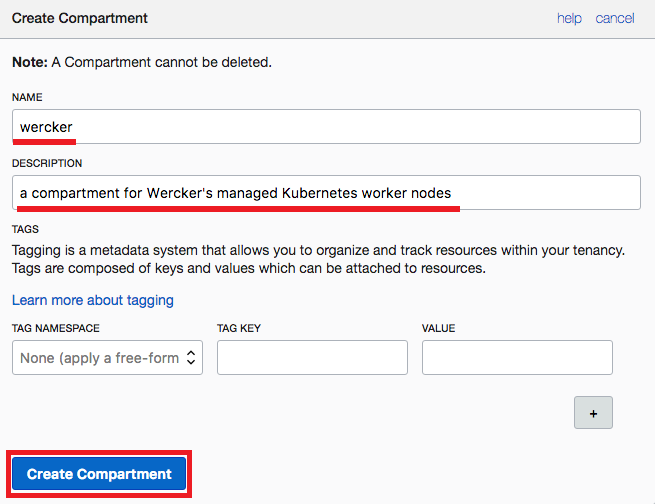
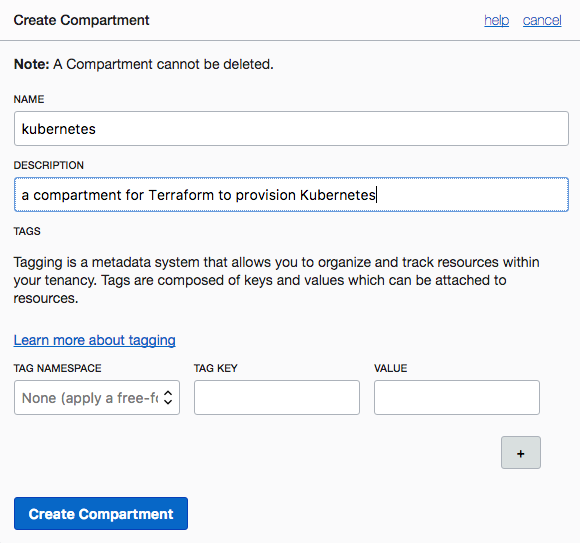
work in progress on terraform updates

diff --git a/workshops/container-native-development/LabGuide200.md b/workshops/container-native-development/LabGuide200.md
@@ -1,4 +1,4 @@
-# Automate Deployment to Kubernetes
+# Provision Kubernetes Using Terraform
 
 ![](images/200/header.png)
 
@@ -8,7 +8,7 @@ This is the second of several labs that are part of the **Oracle Public Cloud Co
 
 You will take on 2 personas during the workshop. The **Lead Developer Persona** will be responsible for configuring the parts of the automated build and deploy process that involve details about the application itself. The **DevOps Engineer Persona** will configure the parts of the automation involving the Kubernetes infrastructure. To containerize and automate the building and deploying of this application you will make use of Wercker Pipelines, Oracle Container Registry, and Oracle Container Engine.
 
-During this lab, you will take on the **DevOps Engineer Persona**. You will create a Kubernetes cluster and deploy your twitter feed microservice and the product catalog application. You'll also create both internal and external facing services in Kubernetes to expose only some of your application's entry points to the internet.
+During this lab, you will take on the **DevOps Engineer Persona**. You will provision a Kubernetes cluster and all of the infrastructure that it requires using Terraform. Terraform will provision the Virtual Cloud Network, Load Balancers, Kubernetes Master and Worker instances, and etcd instance required to support your cluster.
 
 **_To log issues_**, click here to go to the [GitHub oracle](https://github.com/oracle/learning-library/issues/new) repository issue submission form.
 
@@ -27,8 +27,9 @@ During this lab, you will take on the **DevOps Engineer Persona**. You will crea
 - The following lab requires:
   - an Oracle Public Cloud account that will be supplied by your instructor.
   - a [GitHub account](https://github.com/join)
+  - a [Docker Hub account](https://hub.docker.com)
 
-# Containerize Your Java Application and Automate Builds
+# Provision Kubernetes Using Terraform
 
 ## Set Up Oracle Cloud infrastructure
 
@@ -68,7 +69,7 @@ Compartments are used to isolate resources within your OCI tenant. User-based ac
 
   ![](images/200/6.png)
 
-- If your workshop instructor has directed you to use a pre-created compartment **_do not create a new one_**. Locate the compartment in the list and click **Copy** next to the displayed OCID. **Paste** this OCID into a text file or elsewhere for safe keeping. We will use it to tell Wercker where to set up our Cluster in a later step. Proceed to **STEP 3**.
+- If your workshop instructor has directed you to use a pre-created compartment **_do not create a new one_**. Locate the compartment in the list and click **Copy** next to the displayed OCID. **Paste** this OCID into a text file or elsewhere for safe keeping. We will use it to tell Terraform where to set up our cluster in a later step. Proceed to **STEP 3**.
 
   Otherwise, if you are using a trial account or paid account, proceed to the next instruction to create a compartment.
 
@@ -78,19 +79,19 @@ Compartments are used to isolate resources within your OCI tenant. User-based ac
 
   ![](images/200/7.png)
 
-- In the **Name** field, enter `wercker`. Enter a description of your choice. Click **Create Compartment**.
+- In the **Name** field, enter `kubernetes`. Enter a description of your choice. Click **Create Compartment**.
 
   ![](images/200/8.png)
 
-- In a moment, your new Compartment will show up in the list. Locate it and click **Copy** in the OCID display. **Paste** this OCID into a text file or elsewhere for safe keeping. We will use it to tell Wercker where to set up our Cluster in a later step.
+- In a moment, your new Compartment will show up in the list. Locate it and click **Copy** in the OCID display. **Paste** this OCID into a text file or elsewhere for safe keeping. We will use it to tell Terraform where to set up our cluster in a later step.
 
   ![](images/200/9.png)
 
 ### **STEP 3**: Create and upload a new API key
 
-An API key is required for Wercker to authenticate to OCI in order to create compute instances for your Kubernetes worker nodes.
+An API key is required for Terraform to authenticate to OCI in order to create compute instances for your Kubernetes master and worker nodes.
 
-- Open a terminal window and run each of the following commands, one at a time, pressing **Enter** between each one. These commands will create a new directory called .oci, generate a new PEM private key, generate the corresponding public key, and copy the public key to the clipboard. For more information on this process, including the alternate commands to protect your key file with a passphrase, see the [official documentation](https://docs.us-phoenix-1.oraclecloud.com/Content/API/Concepts/apisigningkey.htm#two).
+- Open a terminal window and run each of the following commands, one at a time, pressing **Enter** between each one. These commands will create a new directory called `.oci`, generate a new PEM private key, generate the corresponding public key, and copy the public key to the clipboard. For more information on this process, including the alternate commands to protect your key file with a passphrase, see the [official documentation](https://docs.us-phoenix-1.oraclecloud.com/Content/API/Concepts/apisigningkey.htm#two).
 - If you're using **Windows**, you'll need to install [Git Bash for Windows](https://git-scm.com/download/win) and run the commands with that tool
 
 ```bash
@@ -112,7 +113,7 @@ cat ~/.oci/oci_api_key_public.pem | clip
 
   ![](images/200/10.png)
 
-**NOTE**: If you are using a federated user, you will not see **User Settings** in the dropdown menu. Instead, click the **Identity** menu item. You will be brought to the **Users** menu. Find your username in the list and hover over the **three dots** menu at the far right of the row, then click **View User Details**. 
+**NOTE**: If you are using a federated user, you will not see **User Settings** in the dropdown menu. Instead, click the **Identity** menu item. You will be brought to the **Users** menu. Find your username in the list and hover over the **three dots** menu at the far right of the row, then click **View User Details**.
 
   ![](images/200/56.png)
 
@@ -124,9 +125,105 @@ cat ~/.oci/oci_api_key_public.pem | clip
 
   ![](images/200/13.png)
 
-- **Leave this browser window open**, as we will need to copy and paste some of this information into Wercker.
+- **Leave this browser window open**, as we will need to copy and paste some of this information into the Terraform configuration file.
 
-### **STEP 4**: Create a new Cloud Credential in Wercker
+### **STEP 4**: Download Terraform and the OCI Terraform Provider
+
+- If you are using the Oracle-provided client image, this step has been done for you. Skip to the next step. Otherwise, continue with this step to install Terraform and the OCI provider.
+
+- Download the appropriate Terraform package for your operating system from the [terraform.io downloads page](https://www.terraform.io/downloads.html).
+
+  ![](images/200/58.png)
+
+- **Unzip** the file you downloaded into the folder ~/terraform. You can use the command line or a graphical zip program for this operation. The example command below assumes you don't have other zip files in the current directory beginning with the string `terraform_`.
+
+  `mkdir ~/terraform && cat terraform_*.zip | tar -xvf - -C ~/terraform && cd ~/terraform`
+
+- Add Terraform to your PATH in the **terminal window** that you will use for the next two steps using the following command:
+
+  ``export PATH=$PATH:`PWD` ``
+
+- Download the **OCI Terraform Provider** from the [GitHub release page](https://github.com/oracle/terraform-provider-oci/releases/latest). Select the package for your operating system.
+
+  ![](images/200/59.png)
+
+- Extract the **zip file** you just downloaded
+
+### **STEP 5**: Download and Configure the OCI Terraform Kubernetes Installer
+
+- From the same **terminal window**, run the following commands to download the OCI Terraform Kubernetes Installer:
+  ```bash
+  cd ~
+  git clone https://github.com/oracle/terraform-kubernetes-installer.git
+  cd terraform-kubernetes-installer
+  ```
+
+- Verify proper installation of both Terraform and the OCI provider by running the following command from your **terminal window**:
+
+  ```bash
+  terraform --version
+  ```
+  You should see a version for `Terraform` as well as a version for the `provider.oci` plugin. It is OK if those versions differ from the screenshot below.
+
+  ![](images/200/57.png)
+
+- If you got the expected output from `terraform --version`, proceed to the next instruction. Otherwise, go back to the previous step and complete the instructions to **Download Terraform and the OCI Terraform Provider**. If you installed Terraform yourself, also ensure that it is in your PATH for the current terminal window.
+
+- Once you have Terraform and the OCI provider set up, you are ready to configure the Kubernetes installer with your OCI account information. Start by making a copy of the included TFVARS example file to edit. Run the following from your **terminal window**:
+
+  ```bash
+  cp terraform.example.tfvars terraform.tfvars
+  ```
+
+- Open the `terraform.tfvars` file in your text editor of choice. On Linux you could run:
+
+  ```bash
+  gedit terraform.tfvars
+  ```
+
+- You should still have a browser tab open to your **User Details** page in the OCI Console. Fill in the values in the terraform.tfvars file on lines **2, 4, 6, and 7** with the values from the OCI Console, referring to the following screenshot for where to find them.
+
+  ```
+  tenancy_ocid = "Tenancy OCID"
+
+  fingerprint = "Key Fingerprint"
+
+  user_ocid = "User OCID"
+  region = "Region (e.g. us-ashburn-1)"
+  ```
+
+  **NOTE**: The `region` parameter may not already be present in your tfvars file. If it is not there, add it on a new line after the user_ocid parameter on line 6.
+
+  ![](images/200/17.png)
+
+- Now we'll fill in the OCI Compartment ID on **line 3**. Paste the value that you saved to a text file after creating the kubernetes **compartment** in the OCI Console. If you have lost it, you can retrieve it from the OCI Console compartment list (refer to **STEP 2**).
+
+  ```
+  compartment_ocid = "Compartment OCID"
+  ```
+
+- The last piece of information we need to provide about your OCI tenant is the private key corresponding to the public API key you uploaded to the OCI console previously. Provide the path the the private key file on **line 5**. Note that your path may differ from the example given below.
+
+  ```
+  private_key_path = "/Users/oracle/.oci/oci_api_key.pem"
+  ```
+
+- The rest of the terraform.tfvars file controls the parameters used when creating your Kubernetes cluster. You can control how many OCPUs each node receives, whether nodes should be virtual machines or bare metal instances, how many availability domains to use, and more. We will modify three of the lines in the remainder of the file.
+
+- First, we will specify that we want only one OCPU in each of the worker and master nodes. This reduces the hourly cost of running our cluster. On **lines 15 and 16**, uncomment the **k8sMasterShape** and **k8sWorkerShape** parameters, and set both values to **VM.Standard1.1**:
+
+  ```
+  k8sMasterShape = "VM.Standard1.1"
+  k8sWorkerShape = "VM.Standard1.1"
+  ```
+
+- The other change we will make is to open up the allowed Kubernetes master inbound IP address range, so that we can access our cluster from the internet. On **line 38**, remove the pound sign at the beginning of the line to uncomment it.
+
+  ```
+  master_https_ingress = "0.0.0.0/0"
+  ```
+
+  **NOTE**: The 0.0.0.0/0 value means that any IP address can access your cluster. A better security practice would be to determine your externally-facing IP address and restrict access to only that address. If you'd like, you can find out your IP address by running `curl ifconfig.co` in a terminal window, and place that address into the `master_https_ingress` parameter (e.g. `master_https_ingress = "10.10.10.10/32"`). Note that if you need remote assistance with the workshop, you may need to open this back up to 0.0.0.0/0 to allow access to your cluster.
 
 - **Open** [Wercker](https://app.wercker.com) in a new tab or browser window, or switch to it if you already have it open. In the top navigation bar, click **Clusters**, then **Cloud Credentials**.
 

diff --git a/workshops/container-native-development/LabGuide100.md b/workshops/container-native-development/LabGuide100.md
@@ -24,6 +24,7 @@ During this lab, you will take on the **Lead Developer Persona** and work on con
   - Configure Pipelines and Workflow in Wercker
   - Define Wercker Build Pipeline
   - Set Environment Variables in Wercker
+  - Create Docker Hub Repository
   - Define Wercker Publish Pipeline
   - Validate Workflow Execution
 
@@ -32,6 +33,7 @@ During this lab, you will take on the **Lead Developer Persona** and work on con
 - The following lab requires:
   - an Oracle Public Cloud account that will be supplied by your instructor.
   - a [GitHub account](https://github.com/join)
+  - a [Docker Hub account](https://hub.docker.com)
 
 # Containerize Your Java Application and Automate Builds
 
@@ -196,15 +198,28 @@ build:
 ```
   Key:              Value:
   DOCKER_EMAIL      Your email address (can be any address)
-  DOCKER_USERNAME   Your Wercker username
-  DOCKER_REGISTRY   wcr.io
-  DOCKER_REPO       wcr.io/your-wercker-username/twitter-feed
+  DOCKER_USERNAME   Your Docker Hub username
+  DOCKER_PASSWORD   Your Docker Hub password (check the box for 'protected')
+  DOCKER_REGISTRY   https://registry.hub.docker.com/v2
+  DOCKER_REPO       your-docker-hub-username/twitter-feed
   PORT              8080
 ```
 
 **NOTE**: The Docker email and username variables are required to authenticate to the container registry. The `DOCKER_REPO` must be **all lowercase**.
 
-### **STEP 7**: Define Wercker Publish Pipeline
+### **STEP 7**: Create Docker Hub Repository
+
+- In a browser, go to [Docker Hub](https://hub.docker.com) and click on **Create Repository**.
+
+  ![](images/100/36.png)
+
+- In the **Name** field, enter `twitter-feed`. Optionally add descriptions and click **Create**
+
+  ![](images/100/37.png)
+
+- Your repository is now ready for Wercker to push a Docker image into during the publish pipeline. Let's configure that now.
+
+### **STEP 8**: Define Wercker Publish Pipeline
 
 - Switch to your Github browser tab, click on the **wercker.yml** file, and click the **pencil icon** to begin editing.
 
@@ -217,10 +232,15 @@ build:
 push-release:
   steps:
     - internal/docker-push:
+        username: $DOCKER_USERNAME
+        password: $DOCKER_PASSWORD
+        repository: $DOCKER_REPO
+        registry: $DOCKER_REGISTRY
         tag: $WERCKER_GIT_BRANCH-$WERCKER_GIT_COMMIT
         working-dir: /pipeline/source
         ports: $PORT
-        cmd: sh target/bin/start
+        env: PORT=$PORT
+        cmd: node server.js
 ```
 
   ![](images/100/28.png)
@@ -235,17 +255,17 @@ push-release:
 
   ![](images/100/29.png)
 
-### **STEP 8**: Validate Workflow Execution
+### **STEP 9**: Validate Workflow Execution
 
 - Switch to your Wercker browser tab and click the **Runs** tab within Wercker. You'll see the workflow executing as a result of your Git commit.
 
   ![](images/100/30.png)
 
-- Once the workflow finishes, you'll see both the build and push-release pipelines turn green to indicate success. After that happens, click on the **Releases** button in the top navigation menu in Wercker.
+- Once the workflow finishes, you'll see both the build and push-release pipelines turn green to indicate success. After that happens, switch back to your **Docker Hub** browser tab. You'll see that your twitter-feed repository was pushed to successfully (you may need to refresh the page).
 
   ![](images/100/34.png)
 
-- On the Releases page, you'll see that a repository for your application has been automatically created for you, and your **push-release** pipeline has saved your Docker image into the repository.
+- Click the **Tags** tab to see the image metadata, such as the Git branch and commit hash, as well as the size of the image.
 
   ![](images/100/33.png)
 
